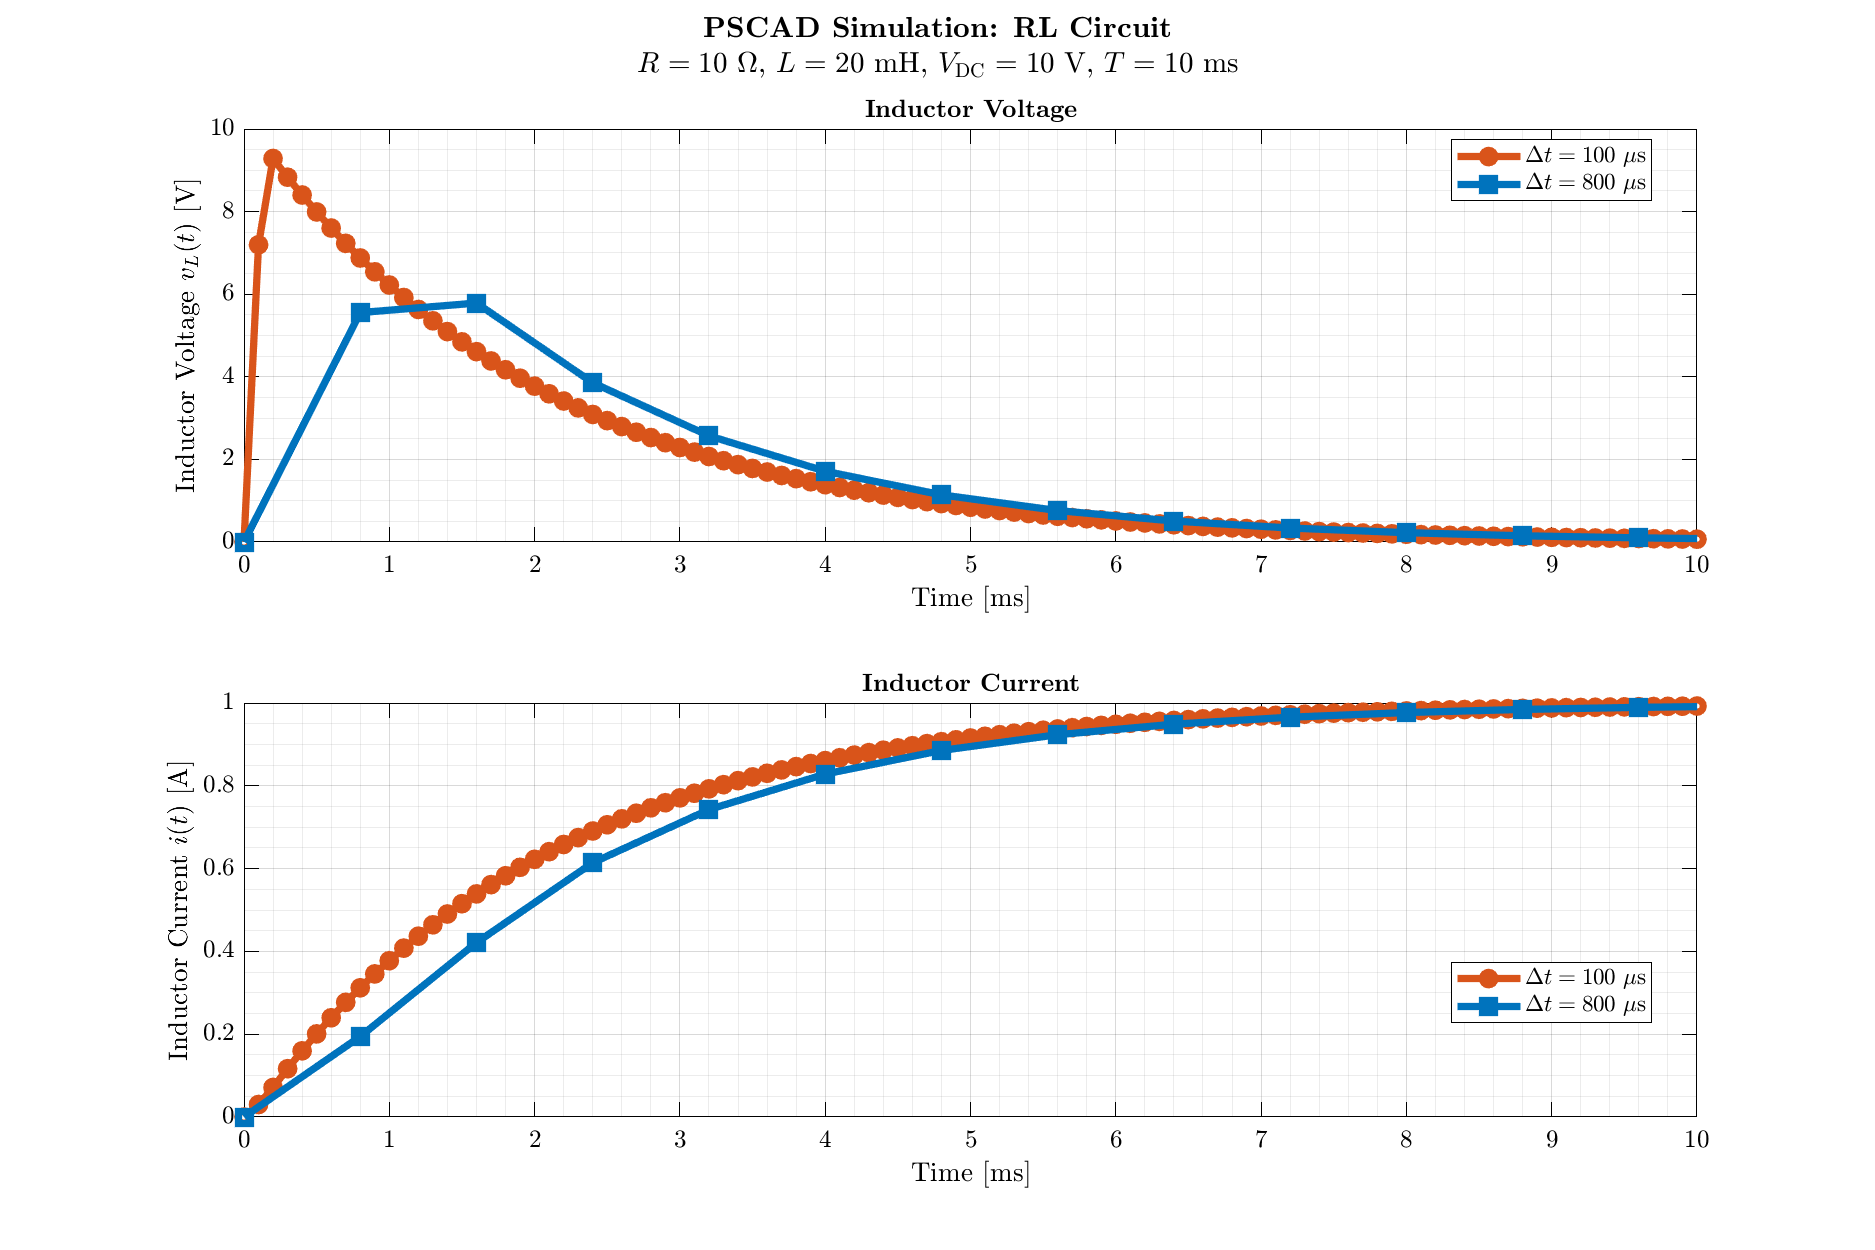
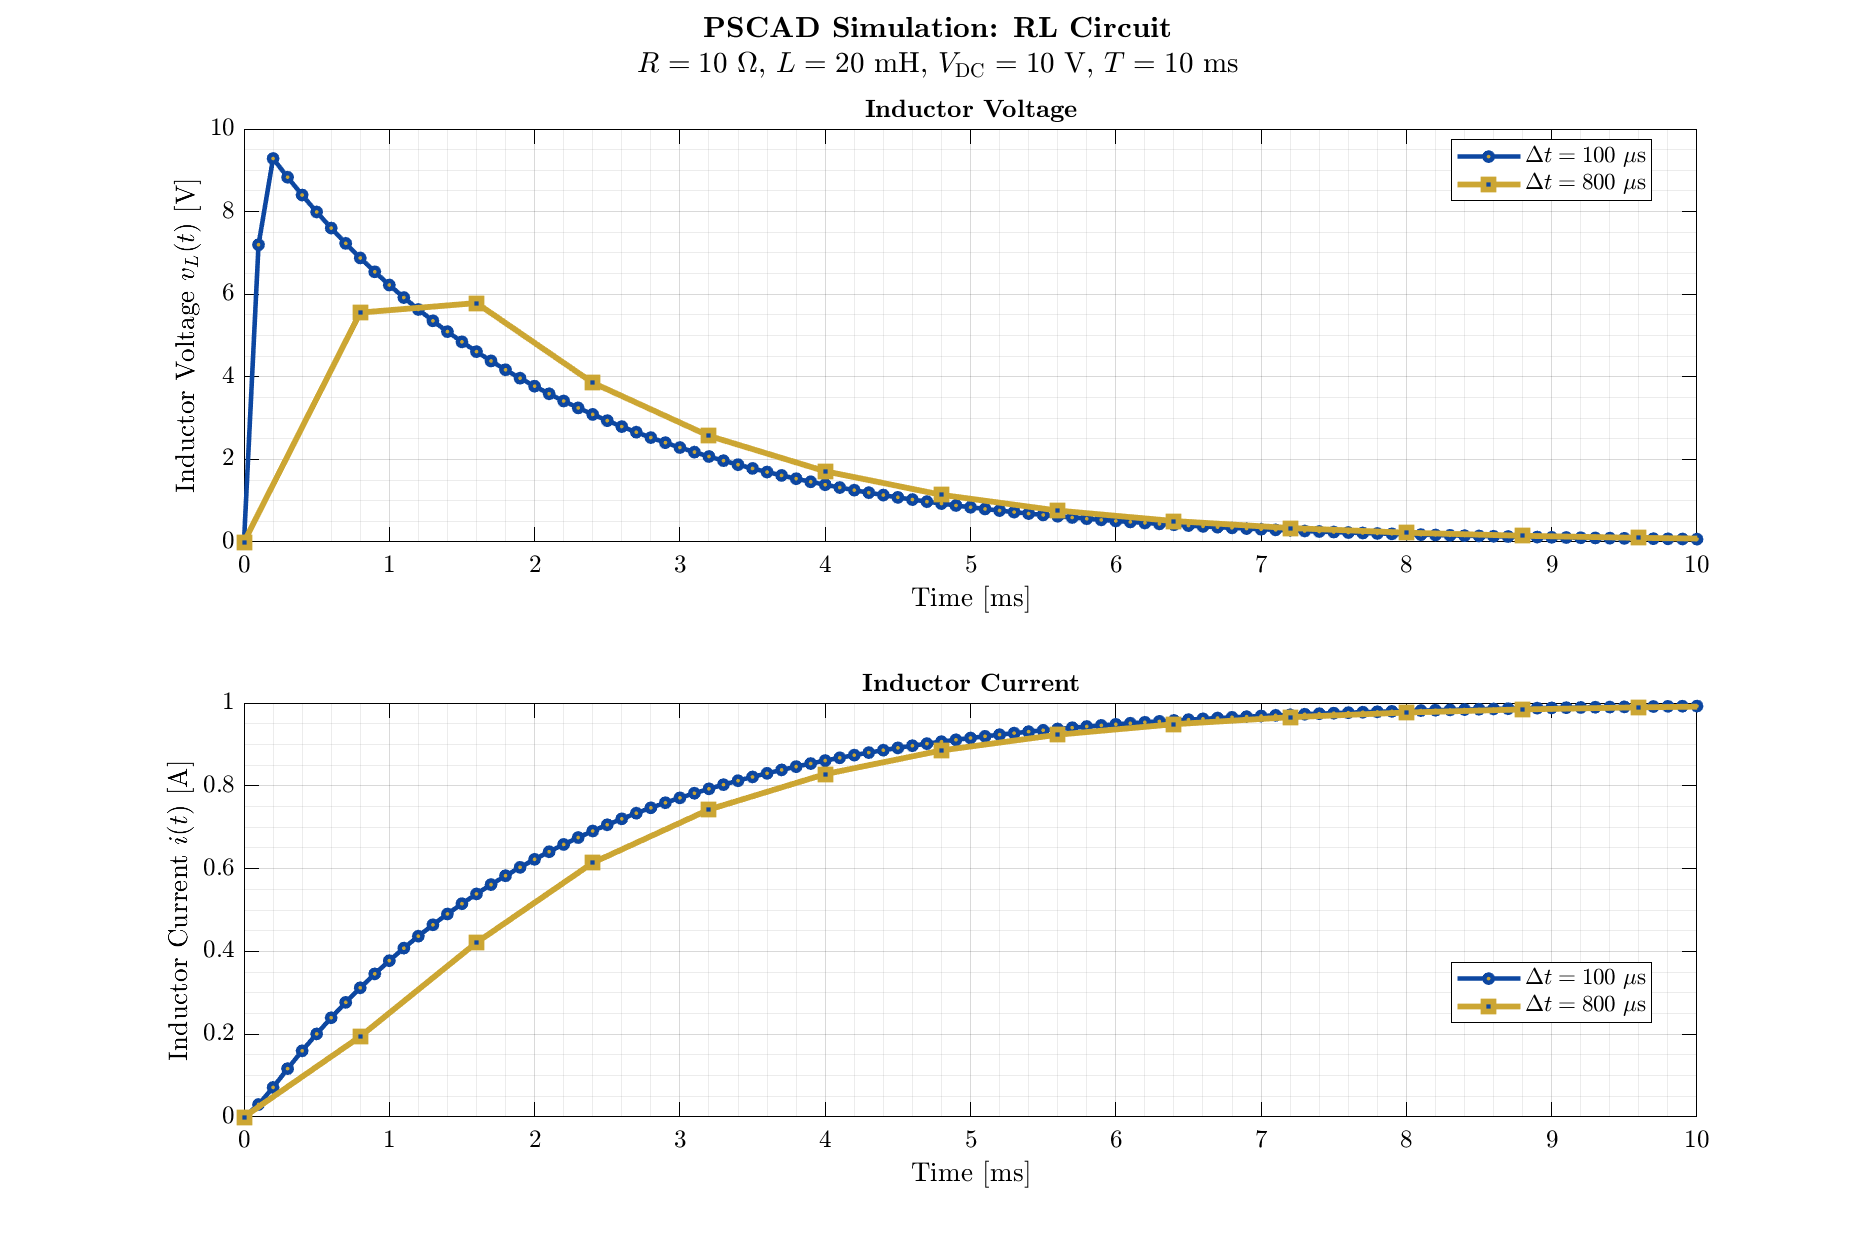
pscad plot colours made complementary

diff --git a/ee582/src_Hw02/hw02_qB1.m b/ee582/src_Hw02/hw02_qB1.m
@@ -10,9 +10,10 @@ addpath(currentScriptFolder);
 %% ===================== Setup Plot Theme =====================
 setup_plot_theme();
 
-% Superior color palette
-color_100us = [0.85, 0.33, 0.10];  % Burnt Orange (100µs)
-color_800us = [0.00, 0.45, 0.74];  % Deep Blue (800µs)
+% PSCAD color palette (blue and gold/yellow from PSCAD branding)
+color_pscad_blue = [0.05, 0.28, 0.63];      % Dark PSCAD Blue
+color_pscad_gold = [0.80, 0.65, 0.20];      % PSCAD Gold/Mustard Yellow
+marker_size_small = 4;  % Smaller markers for dense data
 
 %% ===================== Circuit Parameters =====================
 R = 10;             % Resistance [Ω]
@@ -47,11 +48,15 @@ sgtitle({'\textbf{PSCAD Simulation: RL Circuit}', ...
 % Subplot 1: Inductor Voltage v_L(t)
 subplot(2,1,1);
 ax1 = gca;
-plot(pscad_100us.t*1e3, pscad_100us.vL, 'o-', 'DisplayName', '$\Delta t = 100$ $\mu$s', ...
-    'Color', color_100us, 'LineWidth', 3.5, 'MarkerSize', 6);
+% 100µs: Blue line with gold/yellow markers (complementary pair)
+h1 = plot(pscad_100us.t*1e3, pscad_100us.vL, 'o-', 'DisplayName', '$\Delta t = 100$ $\mu$s', ...
+    'Color', color_pscad_blue, 'LineWidth', 2.2, 'MarkerSize', marker_size_small, ...
+    'MarkerFaceColor', color_pscad_gold, 'MarkerEdgeColor', color_pscad_blue);
 hold on;
-plot(pscad_800us.t*1e3, pscad_800us.vL, 's-', 'DisplayName', '$\Delta t = 800$ $\mu$s', ...
-    'Color', color_800us, 'LineWidth', 3.5, 'MarkerSize', 8);
+% 800µs: Gold/yellow line with blue markers (reversed complementary pair)
+h2 = plot(pscad_800us.t*1e3, pscad_800us.vL, 's-', 'DisplayName', '$\Delta t = 800$ $\mu$s', ...
+    'Color', color_pscad_gold, 'LineWidth', 2.8, 'MarkerSize', 7, ...
+    'MarkerFaceColor', color_pscad_blue, 'MarkerEdgeColor', color_pscad_gold);
 grid on;
 xlabel('Time [ms]', 'Interpreter', 'latex');
 ylabel('Inductor Voltage $v_L(t)$ [V]', 'Interpreter', 'latex');
@@ -69,11 +74,15 @@ ax1.MinorGridColor = [0.5 0.5 0.5];
 % Subplot 2: Inductor Current i(t)
 subplot(2,1,2);
 ax2 = gca;
-plot(pscad_100us.t*1e3, pscad_100us.IL, 'o-', 'DisplayName', '$\Delta t = 100$ $\mu$s', ...
-    'Color', color_100us, 'LineWidth', 3.5, 'MarkerSize', 6);
+% 100µs: Blue line with gold/yellow markers (complementary pair)
+h3 = plot(pscad_100us.t*1e3, pscad_100us.IL, 'o-', 'DisplayName', '$\Delta t = 100$ $\mu$s', ...
+    'Color', color_pscad_blue, 'LineWidth', 2.2, 'MarkerSize', marker_size_small, ...
+    'MarkerFaceColor', color_pscad_gold, 'MarkerEdgeColor', color_pscad_blue);
 hold on;
-plot(pscad_800us.t*1e3, pscad_800us.IL, 's-', 'DisplayName', '$\Delta t = 800$ $\mu$s', ...
-    'Color', color_800us, 'LineWidth', 3.5, 'MarkerSize', 8);
+% 800µs: Gold/yellow line with blue markers (reversed complementary pair)
+h4 = plot(pscad_800us.t*1e3, pscad_800us.IL, 's-', 'DisplayName', '$\Delta t = 800$ $\mu$s', ...
+    'Color', color_pscad_gold, 'LineWidth', 2.8, 'MarkerSize', 7, ...
+    'MarkerFaceColor', color_pscad_blue, 'MarkerEdgeColor', color_pscad_gold);
 grid on;
 xlabel('Time [ms]', 'Interpreter', 'latex');
 ylabel('Inductor Current $i(t)$ [A]', 'Interpreter', 'latex');
